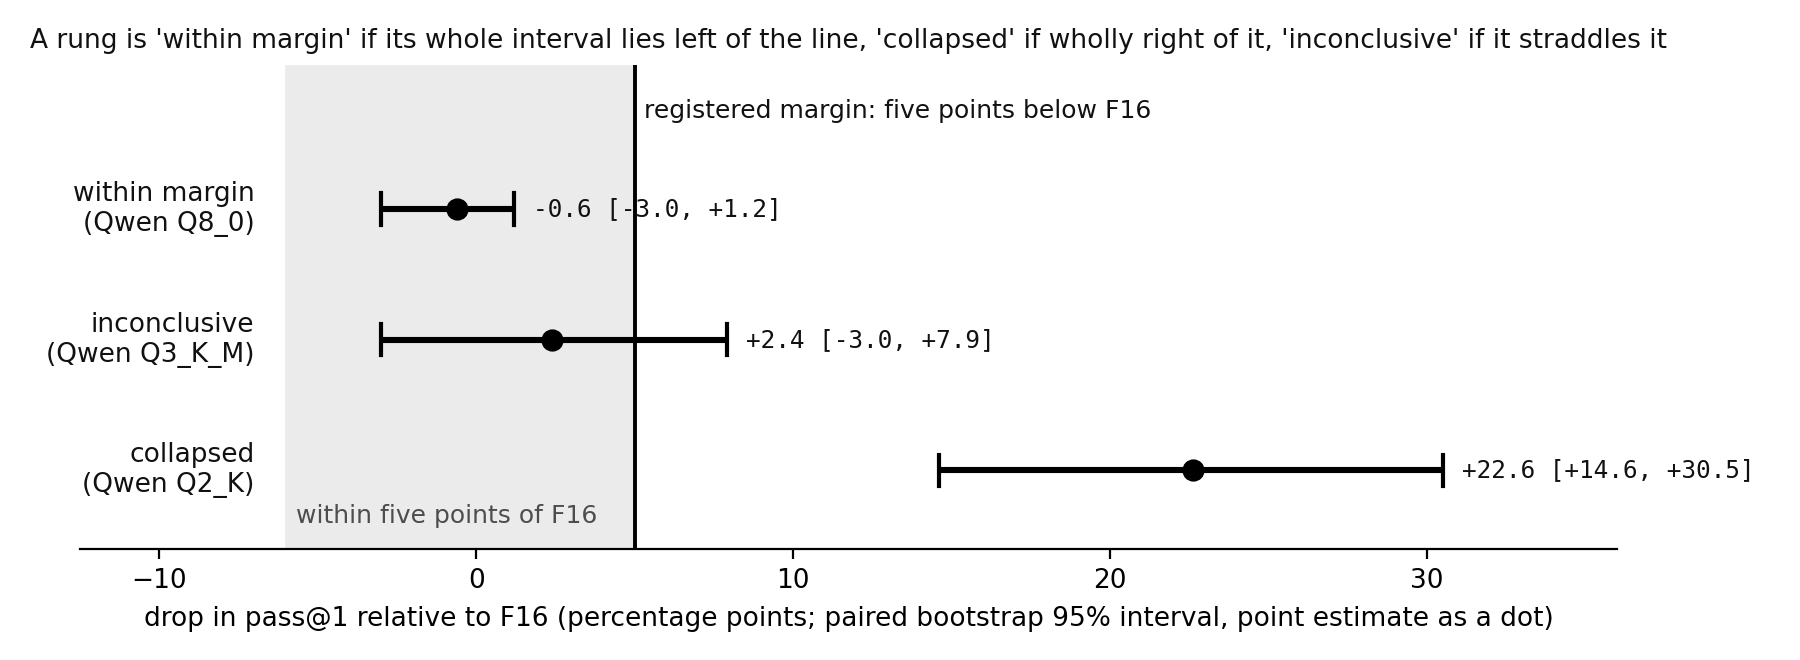
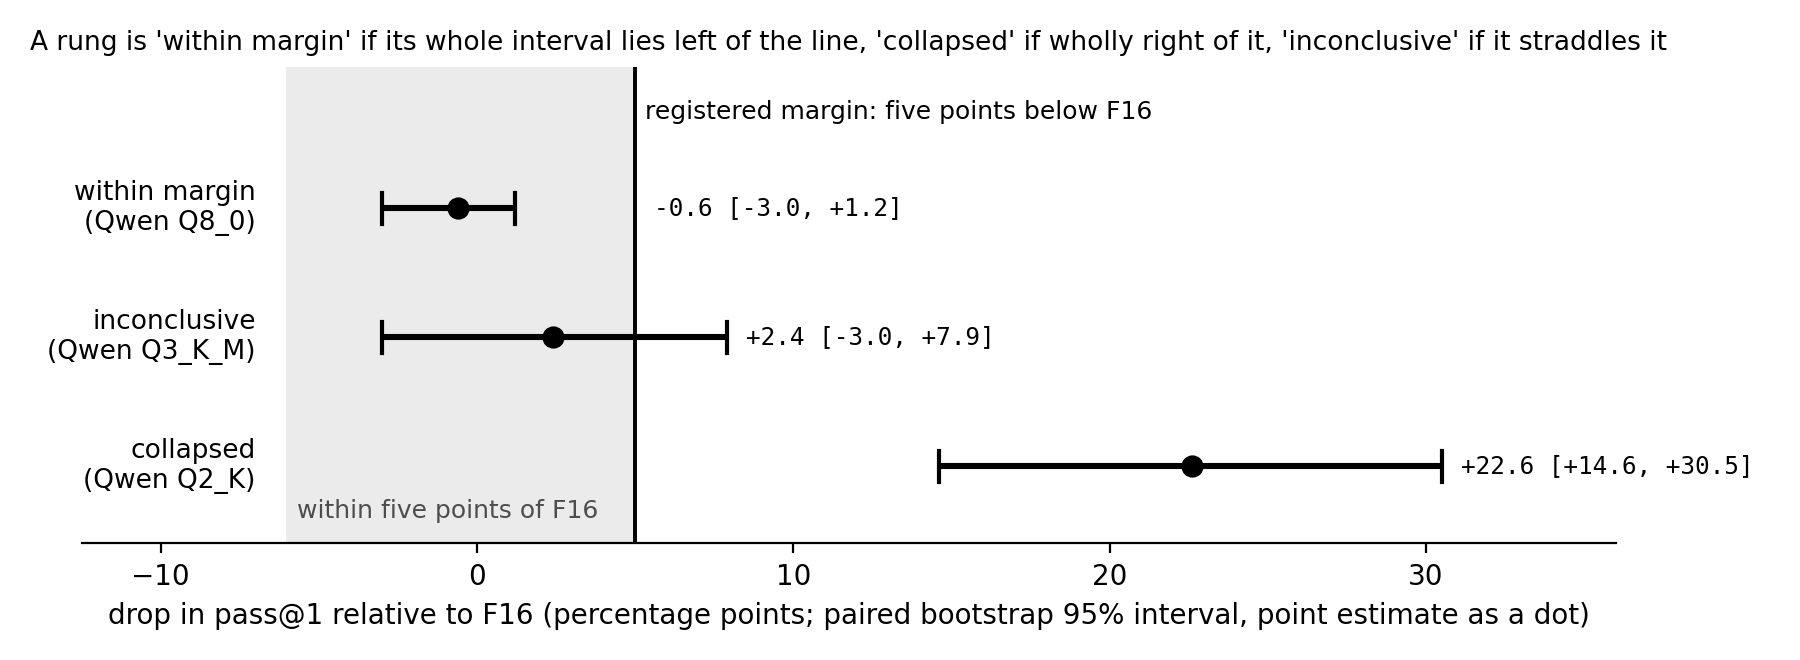
Project update

diff --git a/irp/analysis/make_fig_depmap.py b/irp/analysis/make_fig_depmap.py
@@ -1,7 +1,10 @@
 #!/usr/bin/env python3
-"""Figure: the deployment map (RQ3) as a grid a lay reader can scan: rows = model x rung, columns = tiers,
-cell = verdict against the registered gates with the binding reason. Values from Chapter 4 Tables 4.2, 4.7, 4.8.
-Monochrome fills: white = deployable, hatched = quality-marginal, grey = fails, dark = quality-collapsed, X = does not fit.
+"""Figure 4.4: the deployment map (RQ3) as a grid a lay reader can scan: rows = model x rung, columns = tiers,
+cell = verdict against the registered gates of Table 3.2 with the binding number. Values from Tables 4.1 to 4.3.
+Drawn at print size (6.6 in wide) so every label is legible on the page without scaling.
+Monochrome fills: white = deployable, hatched = quality-marginal, grey = fails the throughput floor,
+dark = quality-collapsed, crossed = not run (registered 8 GB edge line). The Jetson Phi-3 Q8_0 cell carries the
+short-interactive-use caveat of Section 4.4 as a starred tick.
 Output: figures/fig4-5_depmap.png"""
 import os
 import matplotlib
@@ -10,43 +13,44 @@ import matplotlib.pyplot as plt
 from matplotlib.patches import Rectangle
 
 OUT = os.path.join(os.path.dirname(os.path.abspath(__file__)), "figures", "fig4-5_depmap.png")
-INK, MID = "#111111", "#555555"
+INK, MID = "#111111", "#444444"
 plt.rcParams.update({"font.family": "sans-serif", "text.color": INK})
 rows = [("Qwen 1.5B", "F16"), ("Qwen 1.5B", "Q8_0"), ("Qwen 1.5B", "Q4_K_M"), ("Qwen 1.5B", "Q3_K_M"), ("Qwen 1.5B", "Q2_K"),
         ("Phi-3 3.8B", "F16"), ("Phi-3 3.8B", "Q8_0"), ("Phi-3 3.8B", "Q4_K_M"), ("Phi-3 3.8B", "Q3_K_M"), ("Phi-3 3.8B", "Q2_K")]
-cols = ["Pi 5 (CPU)", "Jetson Orin Nano (edge GPU)", "MacBook Pro (consumer GPU)"]
-# (kind, label): kind in {"ok","marg","fail","collapse","nofit"}
+cols = ["Pi 5\n(CPU)", "Jetson Orin Nano\n(edge GPU)", "MacBook Pro\n(consumer GPU)"]
+# (kind, label): kind in {"ok", "okc", "marg", "fail", "collapse", "notrun"}; labels are median tokens per second
 V = {
- ("Qwen 1.5B","F16"):   [("fail","3.8"), ("ok","18.3"), ("ok","78")],
- ("Qwen 1.5B","Q8_0"):  [("fail","5.9"), ("ok","31.0"), ("ok","124")],
- ("Qwen 1.5B","Q4_K_M"):[("ok","11.0"), ("ok","39.8"), ("ok","165")],
- ("Qwen 1.5B","Q3_K_M"):[("marg","12.7"), ("marg","18.6"), ("marg","143")],
- ("Qwen 1.5B","Q2_K"):  [("collapse",""), ("collapse",""), ("collapse","")],
- ("Phi-3 3.8B","F16"):  [("nofit","9.8 GB"), ("nofit","9.8 GB"), ("ok","35.9")],
- ("Phi-3 3.8B","Q8_0"): [("fail","2.6"), ("ok","14.6"), ("ok","61.4")],
- ("Phi-3 3.8B","Q4_K_M"):[("fail","4.5"), ("marg","19.7"), ("marg","85.8")],
- ("Phi-3 3.8B","Q3_K_M"):[("collapse",""), ("collapse",""), ("collapse","")],
- ("Phi-3 3.8B","Q2_K"): [("collapse",""), ("collapse",""), ("collapse","")],
+ ("Qwen 1.5B", "F16"):    [("fail", "3.8"), ("ok", "18.3"), ("ok", "78")],
+ ("Qwen 1.5B", "Q8_0"):   [("fail", "5.9"), ("ok", "31.0"), ("ok", "124")],
+ ("Qwen 1.5B", "Q4_K_M"): [("ok", "11.0"), ("ok", "39.8"), ("ok", "165")],
+ ("Qwen 1.5B", "Q3_K_M"): [("marg", "12.7"), ("marg", "18.6"), ("marg", "143")],
+ ("Qwen 1.5B", "Q2_K"):   [("collapse", ""), ("collapse", ""), ("collapse", "")],
+ ("Phi-3 3.8B", "F16"):   [("notrun", ""), ("notrun", ""), ("ok", "35.9")],
+ ("Phi-3 3.8B", "Q8_0"):  [("fail", "2.6"), ("okc", "14.6"), ("ok", "61.4")],
+ ("Phi-3 3.8B", "Q4_K_M"): [("fail", "4.5"), ("marg", "19.7"), ("marg", "85.8")],
+ ("Phi-3 3.8B", "Q3_K_M"): [("collapse", ""), ("collapse", ""), ("collapse", "")],
+ ("Phi-3 3.8B", "Q2_K"):  [("collapse", ""), ("collapse", ""), ("collapse", "")],
 }
-SYM = {"ok": "✓", "marg": "◐", "fail": "✗", "collapse": "■", "nofit": "⊘"}
-style = {"ok": dict(fc="white", hatch=None), "marg": dict(fc="white", hatch="//"), "fail": dict(fc="#bdbdbd", hatch=None),
-         "collapse": dict(fc="#6e6e6e", hatch=None), "nofit": dict(fc="#d9d9d9", hatch="x")}
-fig, ax = plt.subplots(figsize=(10.5, 5.6), dpi=300)
+SYM = {"ok": "✓", "okc": "✓*", "marg": "◐", "fail": "✗", "collapse": "■", "notrun": "not run"}
+style = {"ok": dict(fc="white", hatch=None), "okc": dict(fc="white", hatch=None), "marg": dict(fc="white", hatch="//"),
+         "fail": dict(fc="#bdbdbd", hatch=None), "collapse": dict(fc="#6e6e6e", hatch=None), "notrun": dict(fc="#d9d9d9", hatch="x")}
+fig, ax = plt.subplots(figsize=(6.6, 4.6), dpi=300)
 ax.set_xlim(0, 3); ax.set_ylim(0, len(rows)); ax.axis("off")
 for j, c in enumerate(cols):
-    ax.text(j + 0.5, len(rows) + 0.25, c, ha="center", va="bottom", fontsize=10, weight="bold")
+    ax.text(j + 0.5, len(rows) + 0.15, c, ha="center", va="bottom", fontsize=8, weight="bold", linespacing=1.2)
 for i, (m, r) in enumerate(rows):
     y = len(rows) - 1 - i
-    ax.text(-0.04, y + 0.5, f"{m}  {r}", ha="right", va="center", fontsize=9.2, weight="bold" if r == "Q4_K_M" and m.startswith("Qwen") else "normal")
+    ax.text(-0.04, y + 0.5, f"{m}  {r}", ha="right", va="center", fontsize=8, weight="bold" if r == "Q4_K_M" and m.startswith("Qwen") else "normal")
     for j, (kind, label) in enumerate(V[(m, r)]):
         st = style[kind]
         ax.add_patch(Rectangle((j, y), 1, 1, fc=st["fc"], ec="#c8c8c8", lw=0, hatch=st["hatch"])); ax.add_patch(Rectangle((j, y), 1, 1, fc="none", ec=INK, lw=0.8))
-        if kind in ("marg", "nofit"): ax.add_patch(Rectangle((j + 0.08, y + 0.3), 0.84, 0.4, fc="white", ec="none"))
+        if kind in ("marg", "notrun"): ax.add_patch(Rectangle((j + 0.1, y + 0.28), 0.8, 0.44, fc="white", ec="none"))
         txt = (SYM[kind] + "  " + label).strip()
-        ax.text(j + 0.5, y + 0.5, txt, ha="center", va="center", fontsize=9.5,
-                color="white" if kind == "collapse" else INK)
+        ax.text(j + 0.5, y + 0.5, txt, ha="center", va="center", fontsize=8.5, color="white" if kind == "collapse" else INK)
     if r == "Q2_K" and i < len(rows) - 1:
-        ax.plot([0, 3], [y, y], color=INK, lw=2.2)
-fig.text(0.5, 0.02, "✓ deployable (all four gates)   ◐ quality marginal   ✗ below the throughput floor   ■ quality collapsed   ⊘ does not fit; numbers are tokens per second",
-         ha="center", fontsize=8, color=MID)
-fig.subplots_adjust(left=0.2, right=0.99, top=0.9, bottom=0.08); fig.savefig(OUT, dpi=300, facecolor="white"); print("wrote", OUT)
+        ax.plot([0, 3], [y, y], color=INK, lw=2)
+fig.text(0.56, 0.06, "✓ deployable (all four gates)    ✓* deployable for short interactive use only (Section 4.4)\n"
+         "◐ quality marginal    ✗ below the throughput floor    ■ quality collapsed\n"
+         "not run = above the registered 8 GB edge line (Section 3.2); numbers are tokens per second",
+         ha="center", va="center", fontsize=7.5, color=MID, linespacing=1.6)
+fig.subplots_adjust(left=0.22, right=0.99, top=0.9, bottom=0.15); fig.savefig(OUT, dpi=300, facecolor="white"); print("wrote", OUT)

diff --git a/irp/analysis/make_fig_results.py b/irp/analysis/make_fig_results.py
@@ -35,7 +35,7 @@ def perf(dev):
         d[(r["model"], r["quant"])] = r
     return d
 PERF = {dev: perf(dev) for dev in ("mac", "jetson", "pi5")}
-TIERS = [("mac", "MacBook (Metal)", BLUE), ("jetson", "Jetson (CUDA)", ORANGE), ("pi5", "Pi 5 (CPU)", GREEN)]
+TIERS = [("mac", "MacBook (Metal)", BLUE, "-", "o"), ("jetson", "Jetson (CUDA)", ORANGE, "--", "s"), ("pi5", "Pi 5 (CPU)", GREEN, "-.", "^")]   # series differ by line style and marker as well as colour
 def series(dev, model, field):
     out = []
     for q in Q:
@@ -47,9 +47,9 @@ def series(dev, model, field):
 # ---- Figure 4.2: throughput
 fig, axes = plt.subplots(1, 2, figsize=(6.4, 3.3), sharey=True)
 for ax, (m, lab) in zip(axes, ((QW, "Qwen2.5-Coder-1.5B"), (PH, "Phi-3-mini-3.8B"))):
-    for dev, dl, c in TIERS: ax.plot(X, series(dev, m, "median_tok_s"), "-o", color=c, lw=1.8, ms=5, label=dl)
+    for dev, dl, c, ls, mk in TIERS: ax.plot(X, series(dev, m, "median_tok_s"), ls=ls, marker=mk, color=c, lw=1.8, ms=5, label=dl)
     ax.set_yscale("log"); ax.set_xticks(X); ax.set_xticklabels(Q, fontsize=8); ax.grid(True, which="both", axis="y", alpha=0.3)
-    ax.text(0.02, 0.97, lab, transform=ax.transAxes, va="top", fontsize=9, weight="bold")
+    ax.set_title(lab, loc="left", fontsize=9, weight="bold", pad=4)   # above the axes, clear of the data
     ax.axhspan(8, 10, color="0.85", alpha=0.6, lw=0)
 axes[0].set_ylabel("median decode tokens/s"); fig.legend(*axes[0].get_legend_handles_labels(), loc="lower center", ncol=3, bbox_to_anchor=(0.5, -0.01))
 plt.tight_layout(rect=(0, 0.07, 1, 1)); fig.savefig(os.path.join(OUT, "fig4-2_throughput.png"), dpi=300); plt.close(fig)
@@ -57,11 +57,11 @@ plt.tight_layout(rect=(0, 0.07, 1, 1)); fig.savefig(os.path.join(OUT, "fig4-2_th
 # ---- Figure 4.3: energy per token
 fig, axes = plt.subplots(1, 2, figsize=(6.4, 3.3), sharey=True)
 for ax, (m, lab) in zip(axes, ((QW, "Qwen2.5-Coder-1.5B"), (PH, "Phi-3-mini-3.8B"))):
-    for dev, dl, c in TIERS:
+    for dev, dl, c, ls, mk in TIERS:
         pw, tk = series(dev, m, "mean_power_w"), series(dev, m, "median_tok_s")
-        ax.plot(X, [p / t if (not np.isnan(p) and not np.isnan(t) and t > 0) else np.nan for p, t in zip(pw, tk)], "-o", color=c, lw=1.8, ms=5, label=dl)
+        ax.plot(X, [p / t if (not np.isnan(p) and not np.isnan(t) and t > 0) else np.nan for p, t in zip(pw, tk)], ls=ls, marker=mk, color=c, lw=1.8, ms=5, label=dl)
     ax.set_yscale("log"); ax.set_xticks(X); ax.set_xticklabels(Q, fontsize=8); ax.grid(True, which="both", axis="y", alpha=0.3)
-    ax.text(0.02, 0.97, lab, transform=ax.transAxes, va="top", fontsize=9, weight="bold")
+    ax.set_title(lab, loc="left", fontsize=9, weight="bold", pad=4)   # above the axes, clear of the data
 axes[0].set_ylabel("energy per token (J, log)"); fig.legend(*axes[0].get_legend_handles_labels(), loc="lower center", ncol=3, bbox_to_anchor=(0.5, -0.01))
 plt.tight_layout(rect=(0, 0.07, 1, 1)); fig.savefig(os.path.join(OUT, "fig4-3_energy.png"), dpi=300); plt.close(fig)
 

diff --git a/irp/analysis/make_fig_verdict.py b/irp/analysis/make_fig_verdict.py
@@ -18,7 +18,7 @@ for i, (label, est, lo, hi) in enumerate(cells):
     ax.plot([lo, lo], [y - 0.12, y + 0.12], color="black", lw=1.5); ax.plot([hi, hi], [y - 0.12, y + 0.12], color="black", lw=1.5)
     ax.plot(est, y, marker="o", color="black", ms=7, zorder=4)
     ax.text(-7.0, y, label, ha="right", va="center", fontsize=9.5)
-    ax.text(hi + 0.6, y, "%+.1f [%+.1f, %+.1f]" % (est, lo, hi), va="center", fontsize=8.8, family="DejaVu Sans Mono")
+    ax.text(max(hi, 5) + 0.6, y, "%+.1f [%+.1f, %+.1f]" % (est, lo, hi), va="center", fontsize=8.8, family="DejaVu Sans Mono")   # never across the margin line
 ax.set_xlim(-12.5, 36); ax.set_ylim(-0.6, 3.1); ax.set_yticks([])
 ax.set_xlabel("drop in pass@1 relative to F16 (percentage points; paired bootstrap 95% interval, point estimate as a dot)")
 for s in ("top", "right", "left"): ax.spines[s].set_visible(False)

diff --git a/irp/analysis/make_fig_collapse.py b/irp/analysis/make_fig_collapse.py
@@ -17,7 +17,7 @@ data = {
 fig, ax = plt.subplots(figsize=(8.2, 4.6))
 x = list(range(5))
 for name, d in data.items():
-    ax.plot(x, d["y"], color=d["c"], lw=2, zorder=2, label=name)
+    ax.plot(x, d["y"], color=d["c"], lw=2, ls="--" if name.startswith("Phi") else "-", zorder=2, label=name)   # line style as well as colour
     ax.errorbar(x, d["y"], yerr=[[a - b for a, b in zip(d["y"], d["lo"])], [b - a for a, b in zip(d["y"], d["hi"])]], fmt="none", ecolor=d["c"], elinewidth=1.1, capsize=3, zorder=2)
     ax.axhline(d["y"][0] - 0.05, color=d["c"], lw=1, ls="--", alpha=0.7, zorder=1)
     for xi, yi, cl in zip(x, d["y"], d["cls"]):

diff --git a/irp/project-log.md b/irp/project-log.md
@@ -945,3 +945,7 @@ column (fp16 0.62 against q8_0 0.85). Verification notes appended to the three e
 - **Public repository staged** by `build_public_repo.py`: git-filter-repo clone restricted to the Table C.1 paths + licences, in `Summative_Assignment/public repo/` (git-ignored). 472 files, 203 commits from 2026-07-10; no .docx/.pdf/.zip in any commit, no ethics path, no credential pattern; file set equals the artefact minus `ethics/`. Student: review commit messages and author e-mail, create the empty GitHub repo, push, tag at the final commit, insert the URL in Appendix C.
 - **Nielsen (1993) verified:** Ch. 5, p. 135 (the 0.1 / 1.0 / 10 s limits, citing Miller 1968 and Card et al. 1991). Cited as `[n, p. 135]`; the 2 s band and 8–10 tok/s floor remain labelled as the proposal's own assumptions. Student confirms against the library copy.
 - `build_artefact.py` now also copies `score_xdev_full.py`, the xdev-full summary files and the three ethics documents; Table C.1 names the scoring scripts. Pass 54. **Master d:** 8,984 declared (build counter exactly 8,700), Word body 8,704, 64 pp, appendices 13. Artefact zip rebuilt (475 files, 16.9 MB).
+
+## 2026-11-14 (night) — Reviewer pass 12 (two reads, floor 70) implemented; master e
+- Disposition: `irp/assessment/Summative_Assignment/reviewer-feedback-2026-11-14-pass12.md`. Every item verified against sources before editing. Must-fix cleared except the Appendix C URL (student pushes the staged public repo). Tables 4.3–4.6 → 4.2–4.5; licence and ethics statements made exact; 8 GB edge line defined (proposal's line; Pi 5 bought with 16 GB; Phi-3 F16 "not run"); collapse-rung pattern re-attributed to the 1.5B in 4.6/6.1/6.2; 4.5 heading, 4.4 wording and splice, 5.4 closed-book condition, 3.3.1 cell count, 2.4 Husom/Giedra claims; Table C.1 pointers and D.17/D.18; five figures redrawn (panel titles, label collision, print-size legend with the Jetson caveat, line styles and markers).
+- **Master e:** 8,981 declared (8,678 body + 303 figure words), Word body 8,682, 64 pp, appendices 13. Not actioned: literature-review density (student's call; funded from Chapter 4 if taken).
